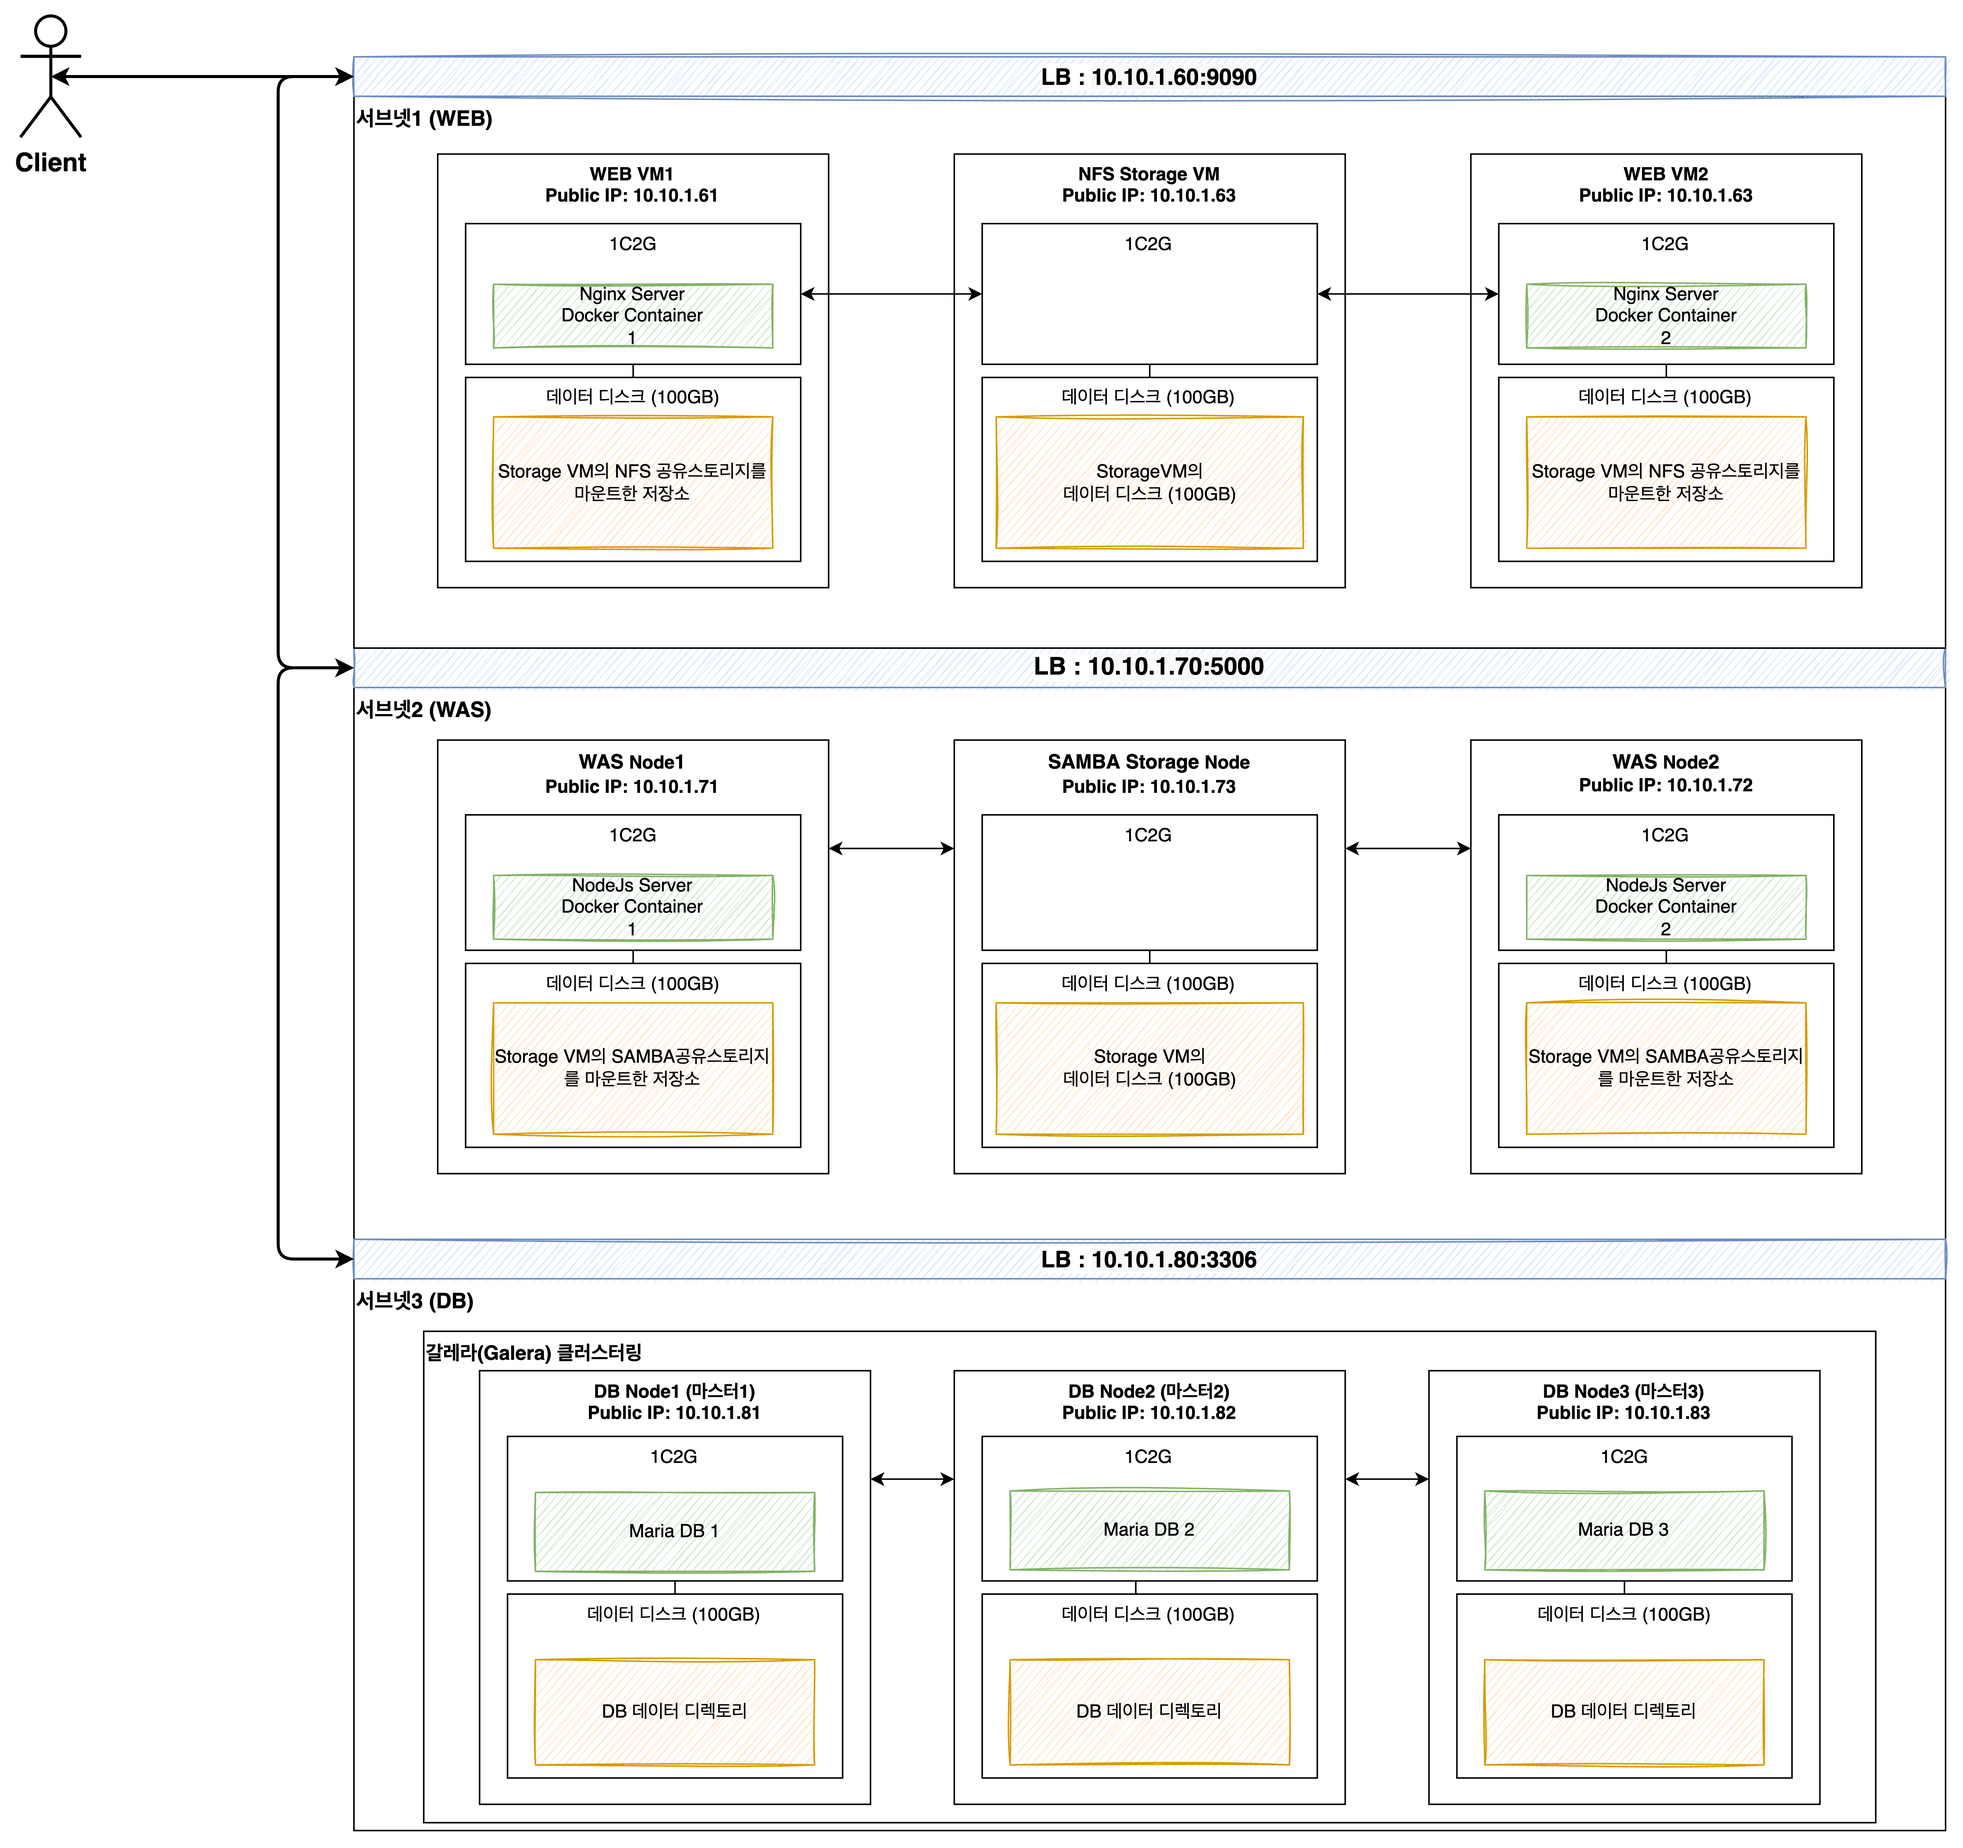
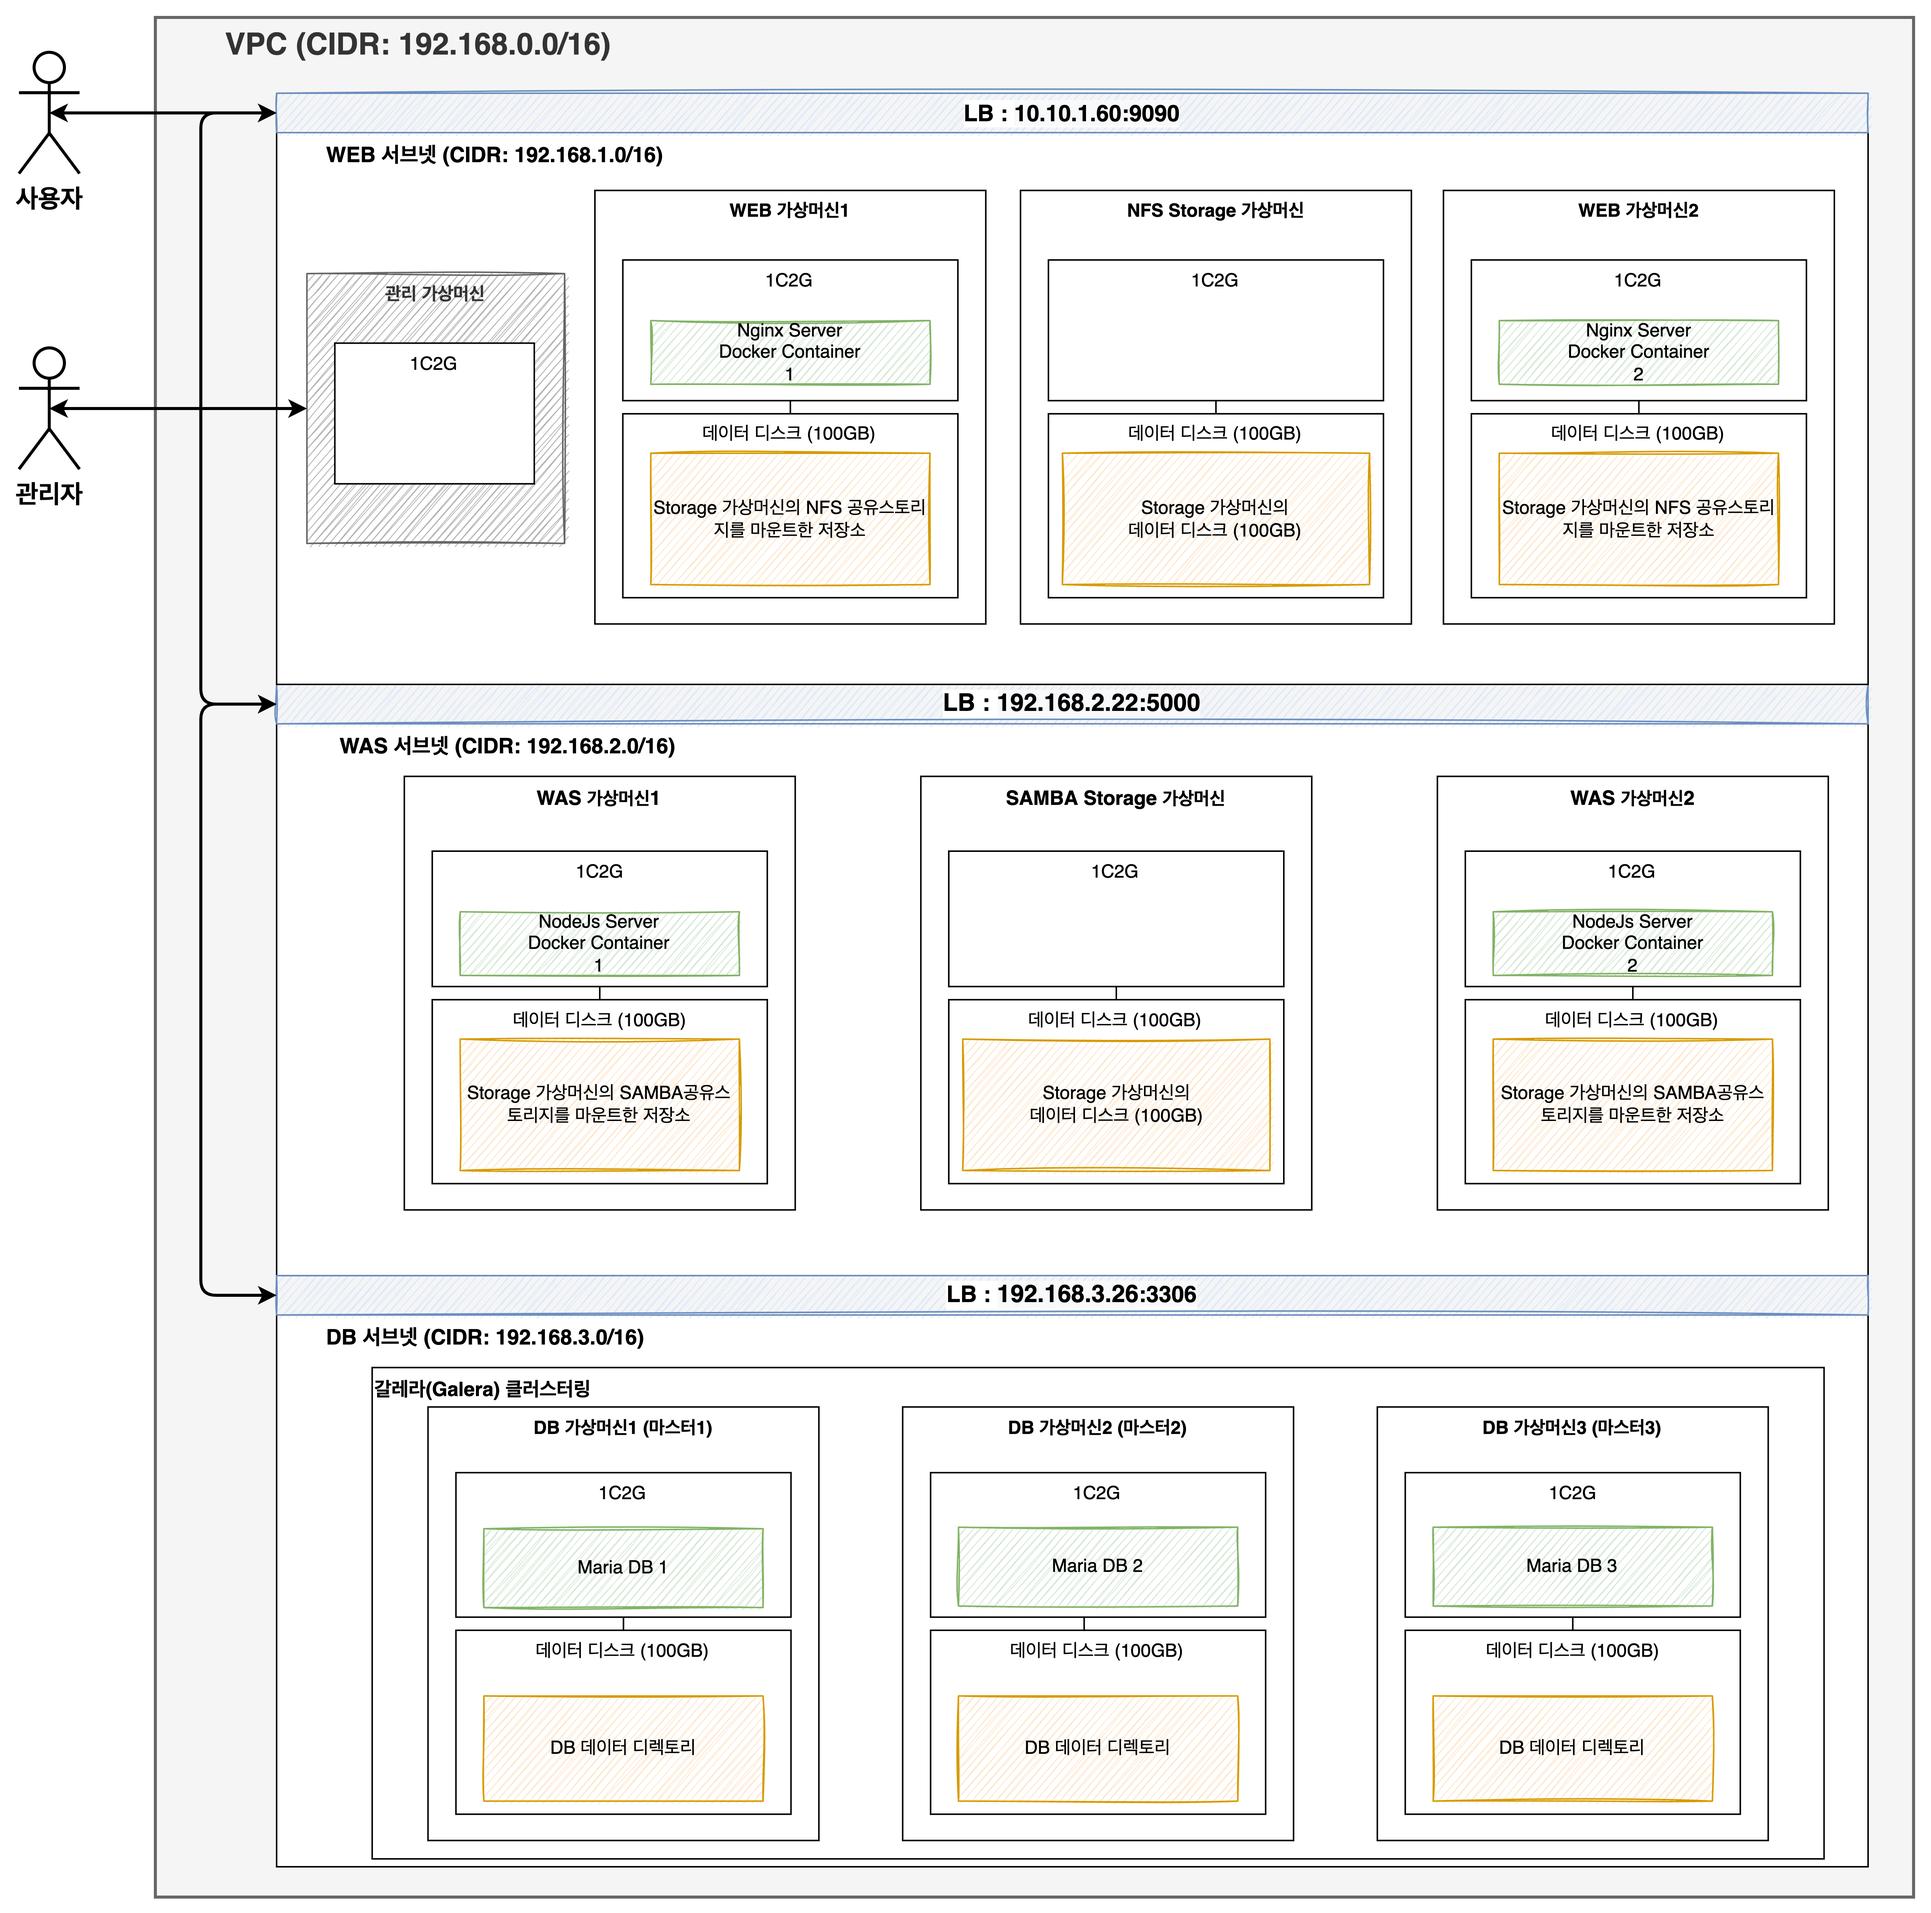
230127-1

diff --git a/docs/userGuide/3tiers/linux/3tiers-linux-guide-prepare.md b/docs/userGuide/3tiers/linux/3tiers-linux-guide-prepare.md
@@ -1,5 +1,5 @@
 본 문서에서는ABLESTACK Mold를 이용해 **이중화를 통한 고가용성 기능을 제공하는 리눅스 기반의 3계층 구조** 의를 구성하는 방법에 대해 설명합니다. 
-이를 위해 독립된 네트워크 공간인 VPC에 Subnet를 구성하고 WEB, WAS, DB 구성에 필요한 가상머신을 생성한 후 로드 밸런서(부하 분산)를 적용해아합니다.
+이를 위해 독립된 네트워크 공간인 VPC에 Subnet를 구성하고 생성된 각 Subnet에 WEB, WAS, DB 구성에 필요한 가상머신을 생성한 다음 로드 밸런서(부하 분산)를 적용해아합니다.
 
 ## 아키텍처
 다음 그림은 앞으로 구성할 리눅스 기반의 3계층 구조 전체를 보여줍니다.
@@ -36,15 +36,18 @@
 - 관리용 네트워크
     - Public IP: 10.10.1.90:3306
 
+???+ note
+    관리용 가상머신의 네트워크는 외부로부터의 통신이 가능하도록 **WEB Subnet** 에 생성합니다.
+
 ## 가상머신 구성 정보
 아키텍처에서 보여지는 **이중화를 통한 고가용성 기능을 제공하는 리눅스 기반의 3계층 구조** 의를 구성하는 데 필요한 가상머신 정보 예시는 다음과 같습니다.
 
-|           | IP                | Offering  | Data Disk     |
-| ----------| ------------------| ----------| --------------|
-| DB        | 192.168.3.11 ~ 13 | 1Core 2GB | 100GB DataDisk |
-| WAS       | 192.168.2.11 ~ 13 | 1Core 2GB | 100GB DataDisk |
-| WEB       | 192.168.1.11 ~ 13 | 1Core 2GB | 100GB DataDisk |
-| 관리용 가상머신 | 192.168.1.11 ~ 13 | 1Core 2GB | NONE |
+|           | IP                | Offering  | Data Disk     | Public IP     |
+| ----------| ------------------| ----------| --------------| --------------|
+| DB        | 192.168.3.11 ~ 13 | 1Core 2GB | 100GB DataDisk | - |
+| WAS       | 192.168.2.11 ~ 13 | 1Core 2GB | 100GB DataDisk | - |
+| WEB       | 192.168.1.11 ~ 13 | 1Core 2GB | 100GB DataDisk | - |
+| 관리용 가상머신 | 192.168.1.142  | 1Core 2GB | -              | 10.10.1.200 |
 
 
 ## 구성 단계

diff --git a/docs/userGuide/3tiers/linux/3tiers-linux-guide-was.md b/docs/userGuide/3tiers/linux/3tiers-linux-guide-was.md
@@ -32,13 +32,10 @@ WAS 아키텍처
 ![3tier-linux-architecture-was-01](../../../../assets/images/3tier-linux-architecture-was-01.png)
 
 ### Affinity 그룹 생성
-VM 생성하기 전, Anti Affinity 그룹을 생성하여 어느하나의 서브넷에 속한 VM들이 특정 호스트 한 곳에 몰려 실행하도록 하거나 반대로 몰려 실행되지 않도록 합니다.
-이중화를 위해 Affinity 그룹을 anti-affinity 유형으로 WEB, WAS, DB 각각 추가해야합니다. 이를 위해 `컴퓨트 > Affinity 그룹` 화면으로 이동하여 `새 Affinity 그룹 추가` 버튼을 클릭합니다.
-클릭하게되면 다음과 같은 입력항목을 확인할 수 있습니다. 
+가상머신을 생성하기 전, Anti Affinity 그룹을 생성하여 어느하나의 서브넷에 속한 VM들이 특정 호스트 한 곳에 몰려 실행하도록 하거나 반대로 몰려 실행되지 않도록 합니다. 이중화를 위해 Affinity 그룹을 anti-affinity 유형으로 WEB, WAS, DB 각각 추가해야합니다. 이를 위해 **컴퓨트 > Affinity 그룹** 화면으로 이동하여 **새 Affinity 그룹 추가** 버튼을 클릭합니다. 클릭하게되면 다음과 같은 입력항목을 확인할 수 있습니다.
 
 <figure markdown>
 ![3tier-linux-architecture-add-affinity-group](../../../../assets/images/3tier-linux-architecture-add-affinity-group.png)
-<figcaption>새 Affinity 그룹 추가 대화 상자</figcaption>
 </figure markdown>
 
 - 이름 : 서브넷을 분별할 수 있는 Affinity 그룹 이름을 입력합니다.

diff --git a/docs/userGuide/templateSample/readme.md b/docs/userGuide/templateSample/readme.md
@@ -11,7 +11,6 @@
 
 <figure markdown>
 ![이미지 제목](이미지 경로.png)
-<figcaption>새 OOO 추가 대화 상자</figcaption>
 </figure markdown>
 
 ### 웹사이트 링크
